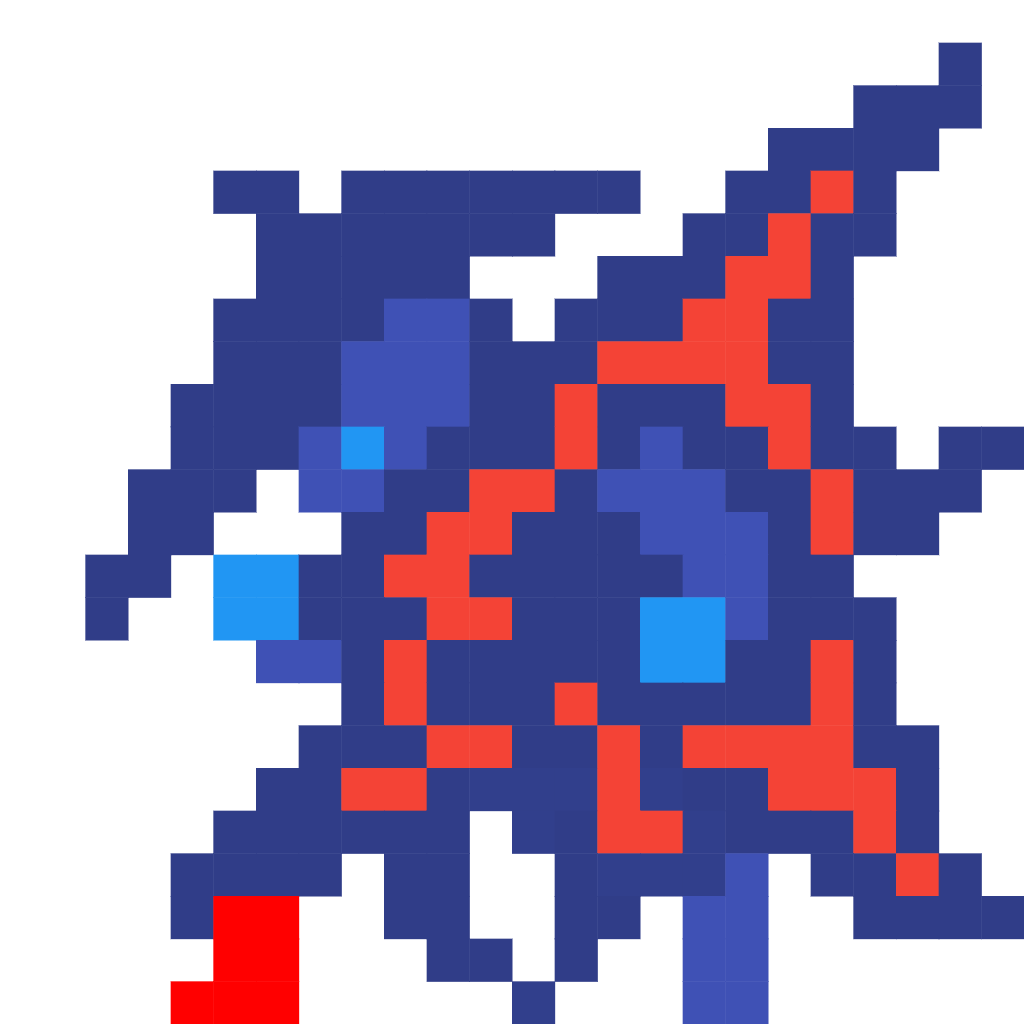
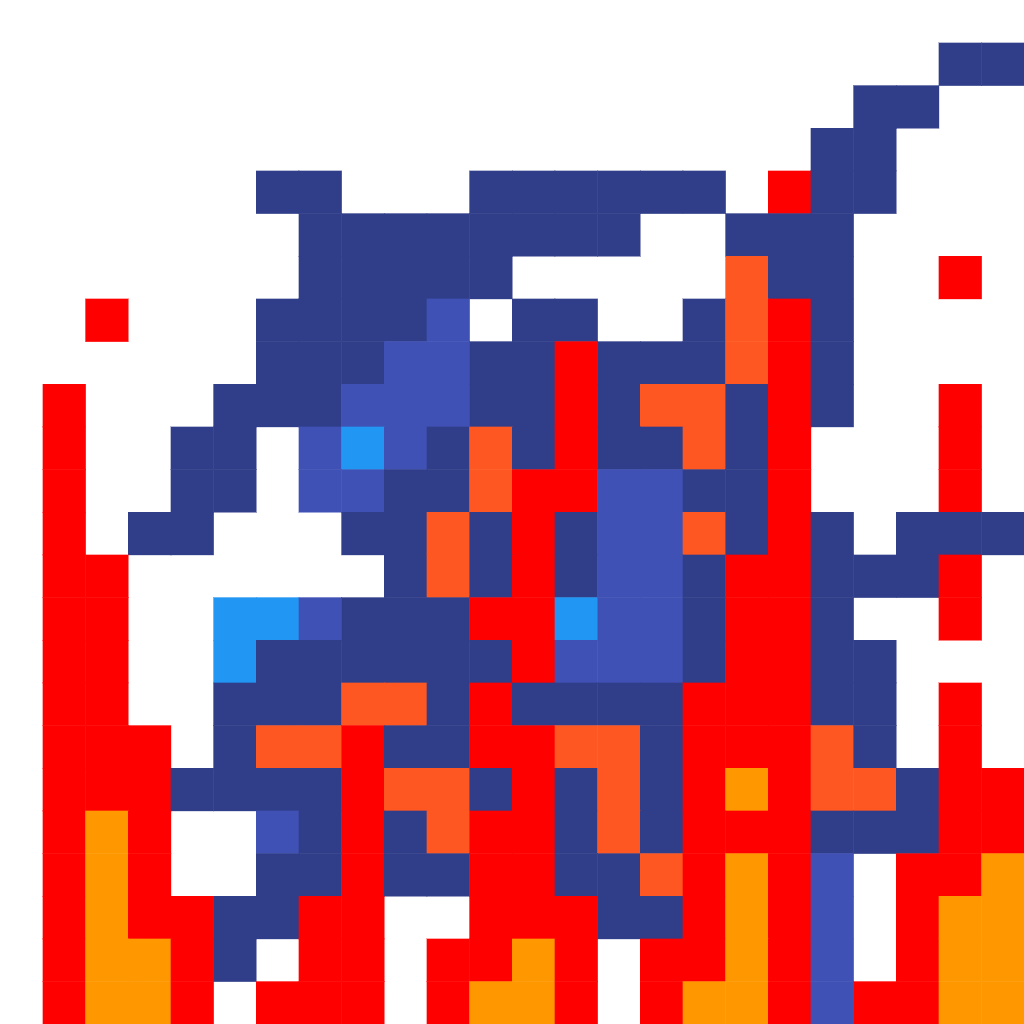
ボスの第二形態の見た目を調整

diff --git a/react/src/game/combat/Boss2.js b/react/src/game/combat/Boss2.js
@@ -11,6 +11,9 @@ const ONE_SHOT_EVENTS = true;
 const START_IN_PHASE2 = true;
 // true : HPが PHASE2_HP_RATIO 以下になったとき、変身攻撃(ビーム)をせずにすぐ第二形態にする
 const SKIP_PHASE2_TRANSFORM_ATTACK = true;
+// 炎エフェクトのON/OFF(OFFにすると、その絵も当たり判定も出ません)
+const FLOOR_FIRE_ON = true;   // 足攻撃の床の炎(floorfire)
+const IMPACT_FIRE_ON = true;  // パンチ・サイドキックの衝撃(fireimpact)
 // ───────── Boss2 の調整用の数値 ─────────
 const WALK_SPEED = 0.55;          // 歩く速さ(px/フレーム)
 const CLOSE_RANGE = 90;       // この距離以内=近距離、それより遠い=遠距離
@@ -126,7 +129,7 @@ const BEAM_BIG_HOLD = 4;          // 画面全体に残るフレーム数
 // 足攻撃(fireFoot)が当たると、半々でパンチ(firePunch)かサイドキック(fireSideKick)へつながる
 const FOLLOW_PUNCH_CHANCE = 0.5;  // 足攻撃がヒットしたあと、パンチを選ぶ確率(残りはサイドキック)
 const FOOT_FIRE_SIDE = 0;        // 床の炎(floorfire)を出す側。-1=ボスの後ろ / 1=ボスの前 / 0=ボスと同じ位置
-const BODY_W = 140;               // ボス本体の横幅(px)。足攻撃の本体の判定の横幅もこれに合わせる
+const BODY_W = 145;               // ボス本体の横幅(px)。足攻撃の本体の判定の横幅もこれに合わせる
 
 const FIRE_IMPACT_HEIGHT = 80;    // パンチ・サイドキックの衝撃(fireimpact)の中心の、地面からの高さ(px)
 const UPPER_OPEN_CHANCE = 0.6;    // 第二形態の近距離で、足攻撃の代わりにアッパーから始める確率
@@ -223,8 +226,9 @@ export const BOSS2_ATTACKS = {
     // 本体の蹴りか床の炎のどちらかがヒットすると、後隙を飛ばしてパンチかサイドキックへつながる。
     fireFoot: {
         fireMelee: true, fireFoot: true,
-        startup: 24, active: 8, recovery: 30,
-        range: BODY_W, height: 60,   // 横幅はボス本体と同じ
+        startup: 18, active: 8, recovery: 30,
+        range: BODY_W + 40, height: 150,    // 横幅はボス本体と同じ
+        pull: BODY_W + 20,
         damage: 35, stamina: 0, hitstun: 20, knockback: 340,
         hitStop: 0, shake: 0.008,
     },
@@ -232,18 +236,18 @@ export const BOSS2_ATTACKS = {
     // パンチ: 前隙 boss2ready → 攻撃・後隙 boss2firepunch。衝撃(fireImpactHit)も出る。
     firePunch: {
         fireMelee: true, firePunch: true,
-        startup: 20, active: 8, recovery: 34,
+        startup: 15, active: 8, recovery: 34,
         pull: BODY_W / 2,   // 判定をボスの中心から出す(体の端ではなく中心から前へ伸びる)
-        range: 100, height: 120,
-        damage: 60, stamina: 0, hitstun: 22, knockback: 900,
+        range: 150, height: 120,
+        damage: 60, stamina: 0, hitstun: 22, knockback: 1200,
         hitStop: 0, shake: 0.01,
     },
 
     // サイドキック: 前隙 boss2sidekickstartup → 攻撃・後隙 boss2sidekickattack。衝撃も出る。
     fireSideKick: {
         fireMelee: true, fireSideKick: true,
-        startup: 20, active: 8, recovery: 34,
-        range: 110, height: 180,
+        startup: 15, active: 8, recovery: 34,
+        range: 150, height: 180,
         pull: BODY_W / 2,   // 判定をボスの中心から出す(体の端ではなく中心から前へ伸びる)
         launch: 700,   // 食らうと上へ浮く強さ(Fighter.js の receiveHit が使う)
         damage: 55, stamina: 0, hitstun: 40, knockback: 900,
@@ -255,8 +259,8 @@ export const BOSS2_ATTACKS = {
     // 食らった相手をボスの頭の高さくらいまで打ち上げる。ヒットしたら追撃のサイドキックへつながる。
     fireUpper: {
         fireMelee: true, fireUpper: true,
-        startup: 20, active: 8, recovery: 40,
-        range: 100, height: 110,
+        startup: 15, active: 8, recovery: 40,
+        range: 120, height: 120,
         pull: 50,      // 判定をボスの体の方へ寄せる距離(px)。大きいほど体に近い
         launch: 600,   // 打ち上げの強さ(Fighter.js の receiveHit が使う)
         damage: 30, stamina: 0, hitstun: 60, knockback: 120,
@@ -265,16 +269,16 @@ export const BOSS2_ATTACKS = {
 
     // 足攻撃のエフェクト: 床の炎(上向き)の当たり判定
     floorFireHit: {
-        projectile: true, parryable: false,
-        range: 210, height: 90,   // 足攻撃の本体(140×60)の1.5倍
+        projectile: true, parryable: true,
+        range: 275, height: 90,   // 足攻撃の本体(140×60)の1.5倍
         damage: 30, stamina: 0, hitstun: 20, knockback: 240,
         hitStop: 0, shake: 0.008,
     },
 
     // パンチ・サイドキックのエフェクト: 衝撃(左向きの絵)の当たり判定
     fireImpactHit: {
-        projectile: true, parryable: false,
-        range: 210, height: 120,   // 床の炎と同じ大きさ
+        projectile: true, parryable: true,
+        range: 180 , height: 120,   // 床の炎と同じ大きさ
         damage: 30, stamina: 0, hitstun: 20, knockback: 260,
         hitStop: 0, shake: 0.008,
     },
@@ -350,9 +354,10 @@ const VIEW = {
     blockTrackIcicle: { key: "boss2_icicle", w: 50, h: 110, originY: 1 },
     beam:   { key: "boss2_firebeam",      w: 1,   h: 1,   originY: 0.5 },
     // 炎コンボのエフェクト。fireFx は床の炎(上向きの絵・根元を地面に置く)
-    fireFx:     { key: "boss2_floorfire",  w: 200, h: 300, originY: 1 },
+    fireFx:     { key: "boss2_floorfire",  w: 270, h: 450, originY: 1 },
     // 衝撃(左向きの絵)。fireFx の fx が "impact" のときに使う
-    fireImpact: { key: "boss2_fireimpact", w: 120, h: 80,  originY: 0.4 },
+    fireImpact: { key: "boss2_fireimpact", w: 190, h: 140,  originY: 0.5
+ },
 };
 
 function blankProj() {
@@ -1014,6 +1019,7 @@ faceForMelee() {
         const dir = this.facing;
 
         if (a.fireFoot) {
+            if (!FLOOR_FIRE_ON) return;
             // 足攻撃: 床の炎(上向き)。FOOT_FIRE_SIDE で後ろ(-1)か前(1)かを選ぶ
             const fa = BOSS2_ATTACKS.floorFireHit;
 
@@ -1027,7 +1033,7 @@ faceForMelee() {
             });
             return;
         }
-
+        if (!IMPACT_FIRE_ON) return;
         // パンチ・サイドキック: 前方に衝撃(左向きの絵)
         const ia = BOSS2_ATTACKS.fireImpactHit;
 
@@ -1036,7 +1042,7 @@ faceForMelee() {
             fx: "impact",
             dir,
             life: a.active,
-            x: this.sprite.x + dir * (half + ia.range / 2 - (a.pull ?? 0)),
+            x: this.sprite.x + dir * (half + ia.range / 2 - (a.pull ?? 0) - 60),
             y: this.groundY - FIRE_IMPACT_HEIGHT,
         });
     }
